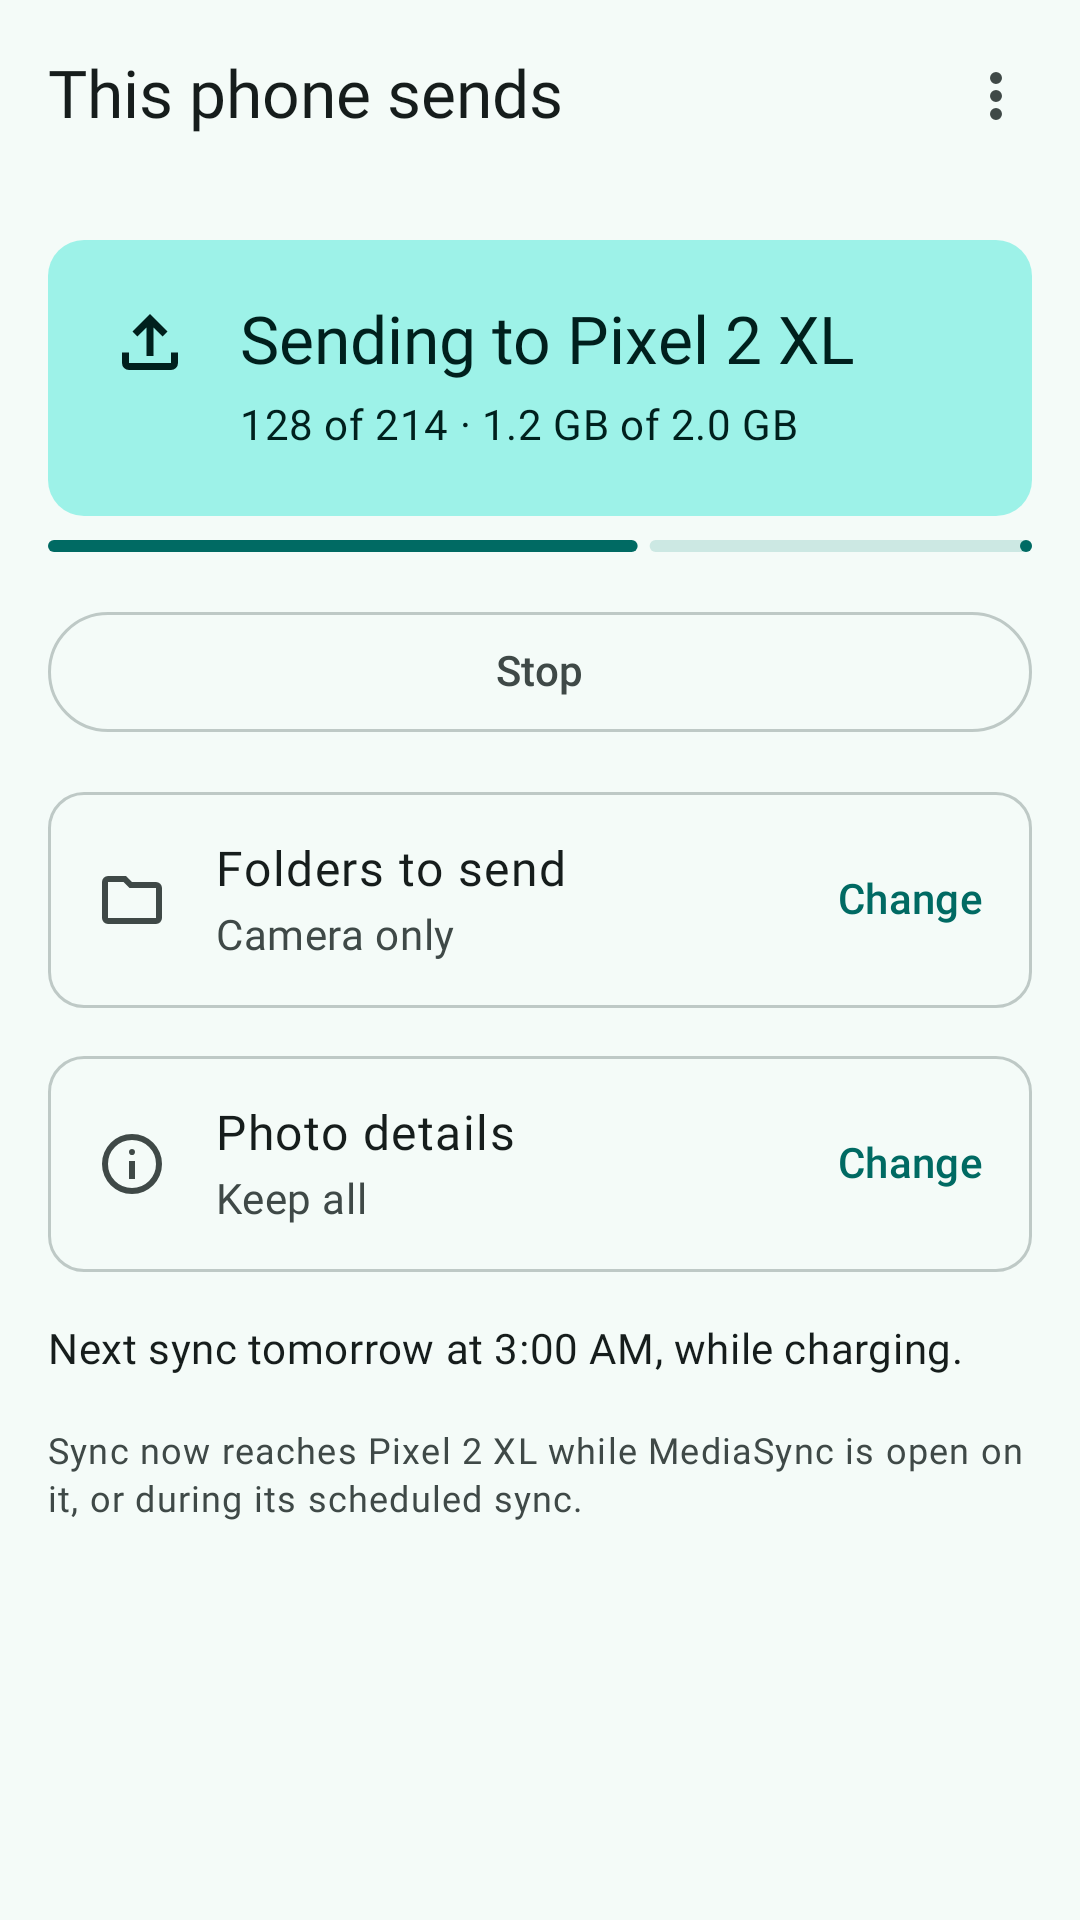
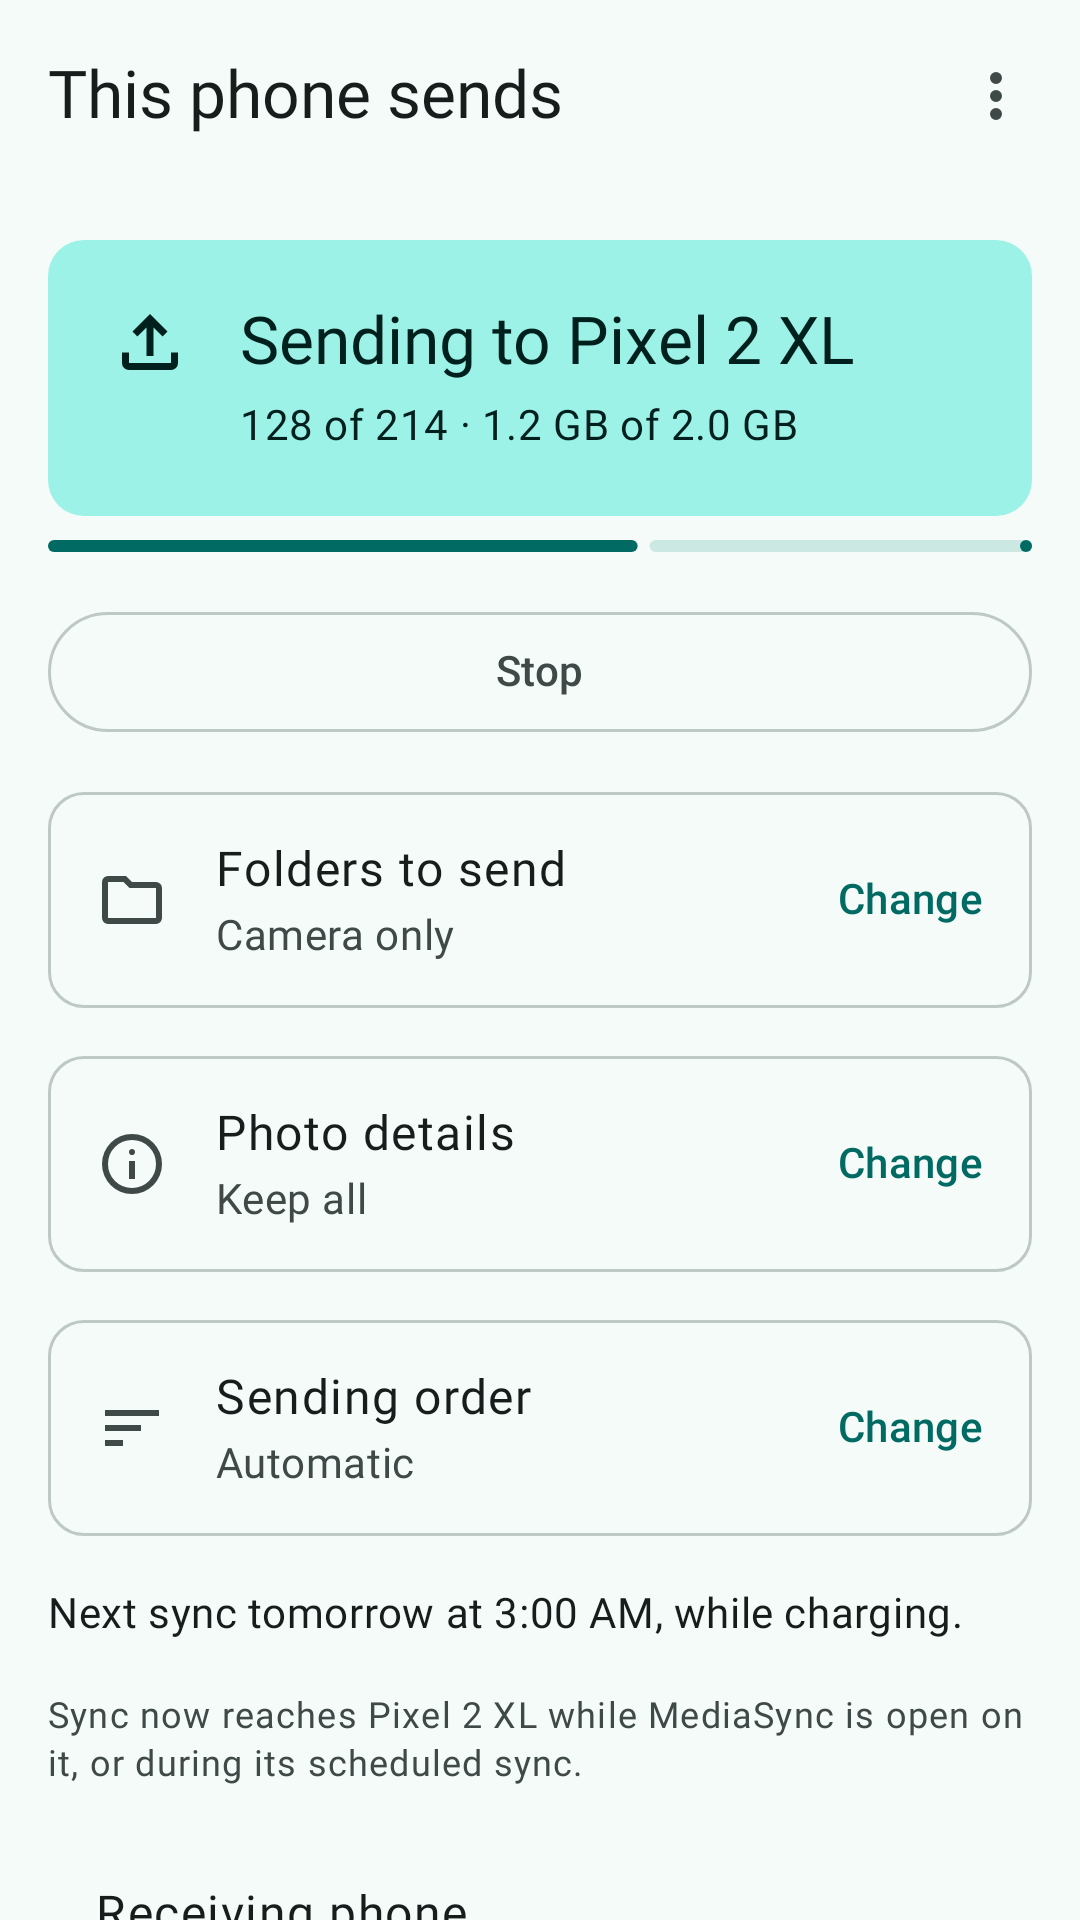
docs: the Play listing describes 0.4.0 (#53)
Brings `docs/play/` in line with what was entered in Play Console for
0.4.0:

- **Full description** (2,850 of 4,000 characters) now covers:
  - Share to MediaSync, the Quick Settings tile and the widget;
- a *You decide what's sent* section: folders, dates taken (both days
included), sending order, photo details;
  - Turbo over Wi-Fi Aware or Wi-Fi Direct;
  - videos waiting for Wi-Fi on the relay;
  - removing and unpairing phones, and resetting;
  - the ten languages, TalkBack and large text.
- **`phone-1-sending.png`** re-rendered with `StoreGraphicsTest`: the
sending phone's home now shows the *Sending order* row. The other
graphics rendered identically.

🤖 Generated with [Claude Code](https://claude.com/claude-code)

diff --git a/docs/play/listing.md b/docs/play/listing.md
@@ -21,12 +21,19 @@ MediaSync copies the photos and videos from your family's phones to one phone yo
 
 HOW IT WORKS
 • Pick a receiving phone and pair each sending phone with it once, by scanning a QR code.
-• Every night at 3:00, while the phones charge, new photos and videos are copied over Wi-Fi. Or tap Sync now at any time.
+• Every night while the phones charge (at 3:00 unless you choose another time), new photos and videos are copied over Wi-Fi. Or tap Sync now at any time, also from the Quick Settings tile or the home-screen widget.
+• Share photos and videos to MediaSync from any gallery app, and they're sent first, right away.
 • Everything arrives exactly as taken: the same bytes, with date, time zone, place, camera details, album and file name.
+
+YOU DECIDE WHAT'S SENT
+• Choose the folders: Camera only, Camera and Screenshots, all folders, or your own pick.
+• Optionally only photos taken from a first day, until a last day, or between the two, both days included.
+• Choose the order: newest first, oldest first, photos first or videos first, or let the phone decide.
+• Photo details: keep everything, remove the place, or remove all details before a photo leaves the sending phone.
 
 FAST
 • Several streams in parallel use your Wi-Fi to the full.
-• Turbo transfer links two phones directly with Wi-Fi Direct, even without a shared Wi-Fi network: ideal for the first big copy.
+• Turbo links two phones directly, with Wi-Fi Aware where both phones have it and Wi-Fi Direct otherwise, even without a shared Wi-Fi network: ideal for the first big copy.
 
 BACKED UP BY GOOGLE PHOTOS, IF YOU LIKE
 • Received photos go into one folder that the Google Photos app on the receiving phone can back up. On a Pixel 2 to 5 that's free and unlimited in Storage saver quality.
@@ -35,11 +42,13 @@ BACKED UP BY GOOGLE PHOTOS, IF YOU LIKE
 
 ALSO OVER THE INTERNET (OPTIONAL)
 • Phones away from home sync through your own free Cloudflare account, set up from the receiving phone in a minute.
-• Phones connect directly when the networks allow it; otherwise through Cloudflare's relay, which can't read your photos. A meter shows the free monthly allowance, and MediaSync never goes past it.
+• Phones connect directly when the networks allow it; otherwise through Cloudflare's relay, which can't read your photos. A meter shows the free monthly allowance, and MediaSync never goes past it. Videos wait for Wi-Fi unless you let them use the relay.
 • Mobile data only if you allow it, with an optional monthly cap.
 
-YOUR CHOICE OF DETAILS
-• Photo details: keep everything, remove the place, or remove all details before a photo leaves the sending phone.
+YOURS TO MANAGE
+• Remove a sending phone from the receiving phone, or unpair a sending phone and pair it with another one. What was sent always stays.
+• Reset MediaSync to start over at any time.
+• In English, Czech, French, German, Italian, Brazilian Portuguese, Russian, Slovak, Spanish and Ukrainian, and built for TalkBack and large text.
 
 OPEN SOURCE
 • MediaSync is open source under the Apache 2.0 license: github.com/danyk20/mediasync
